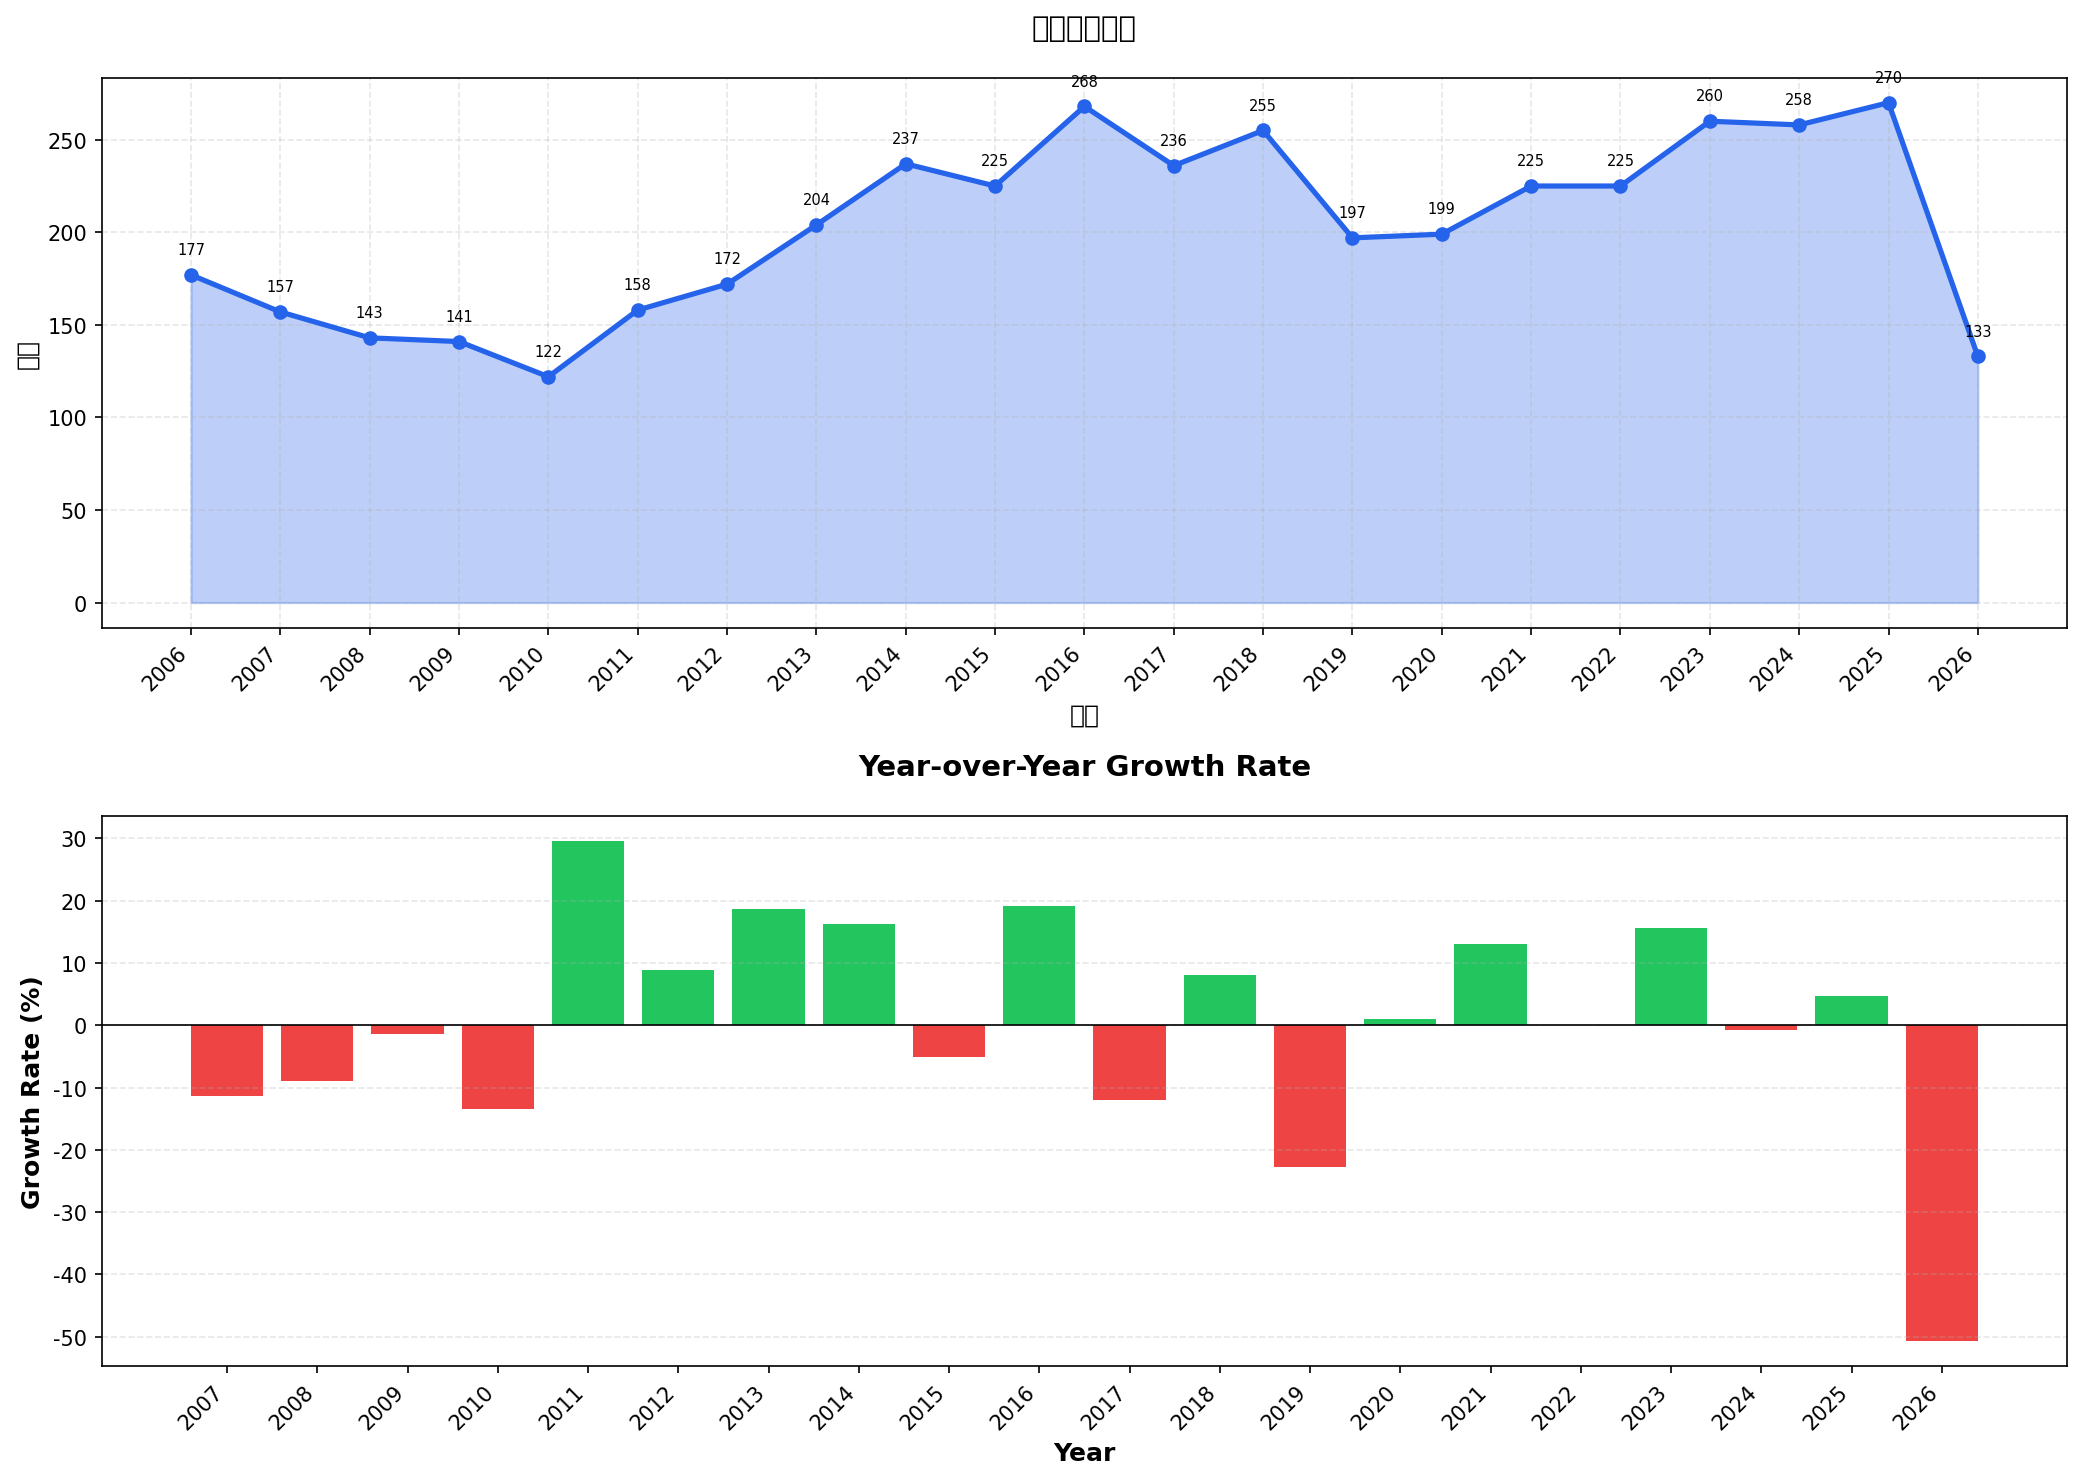
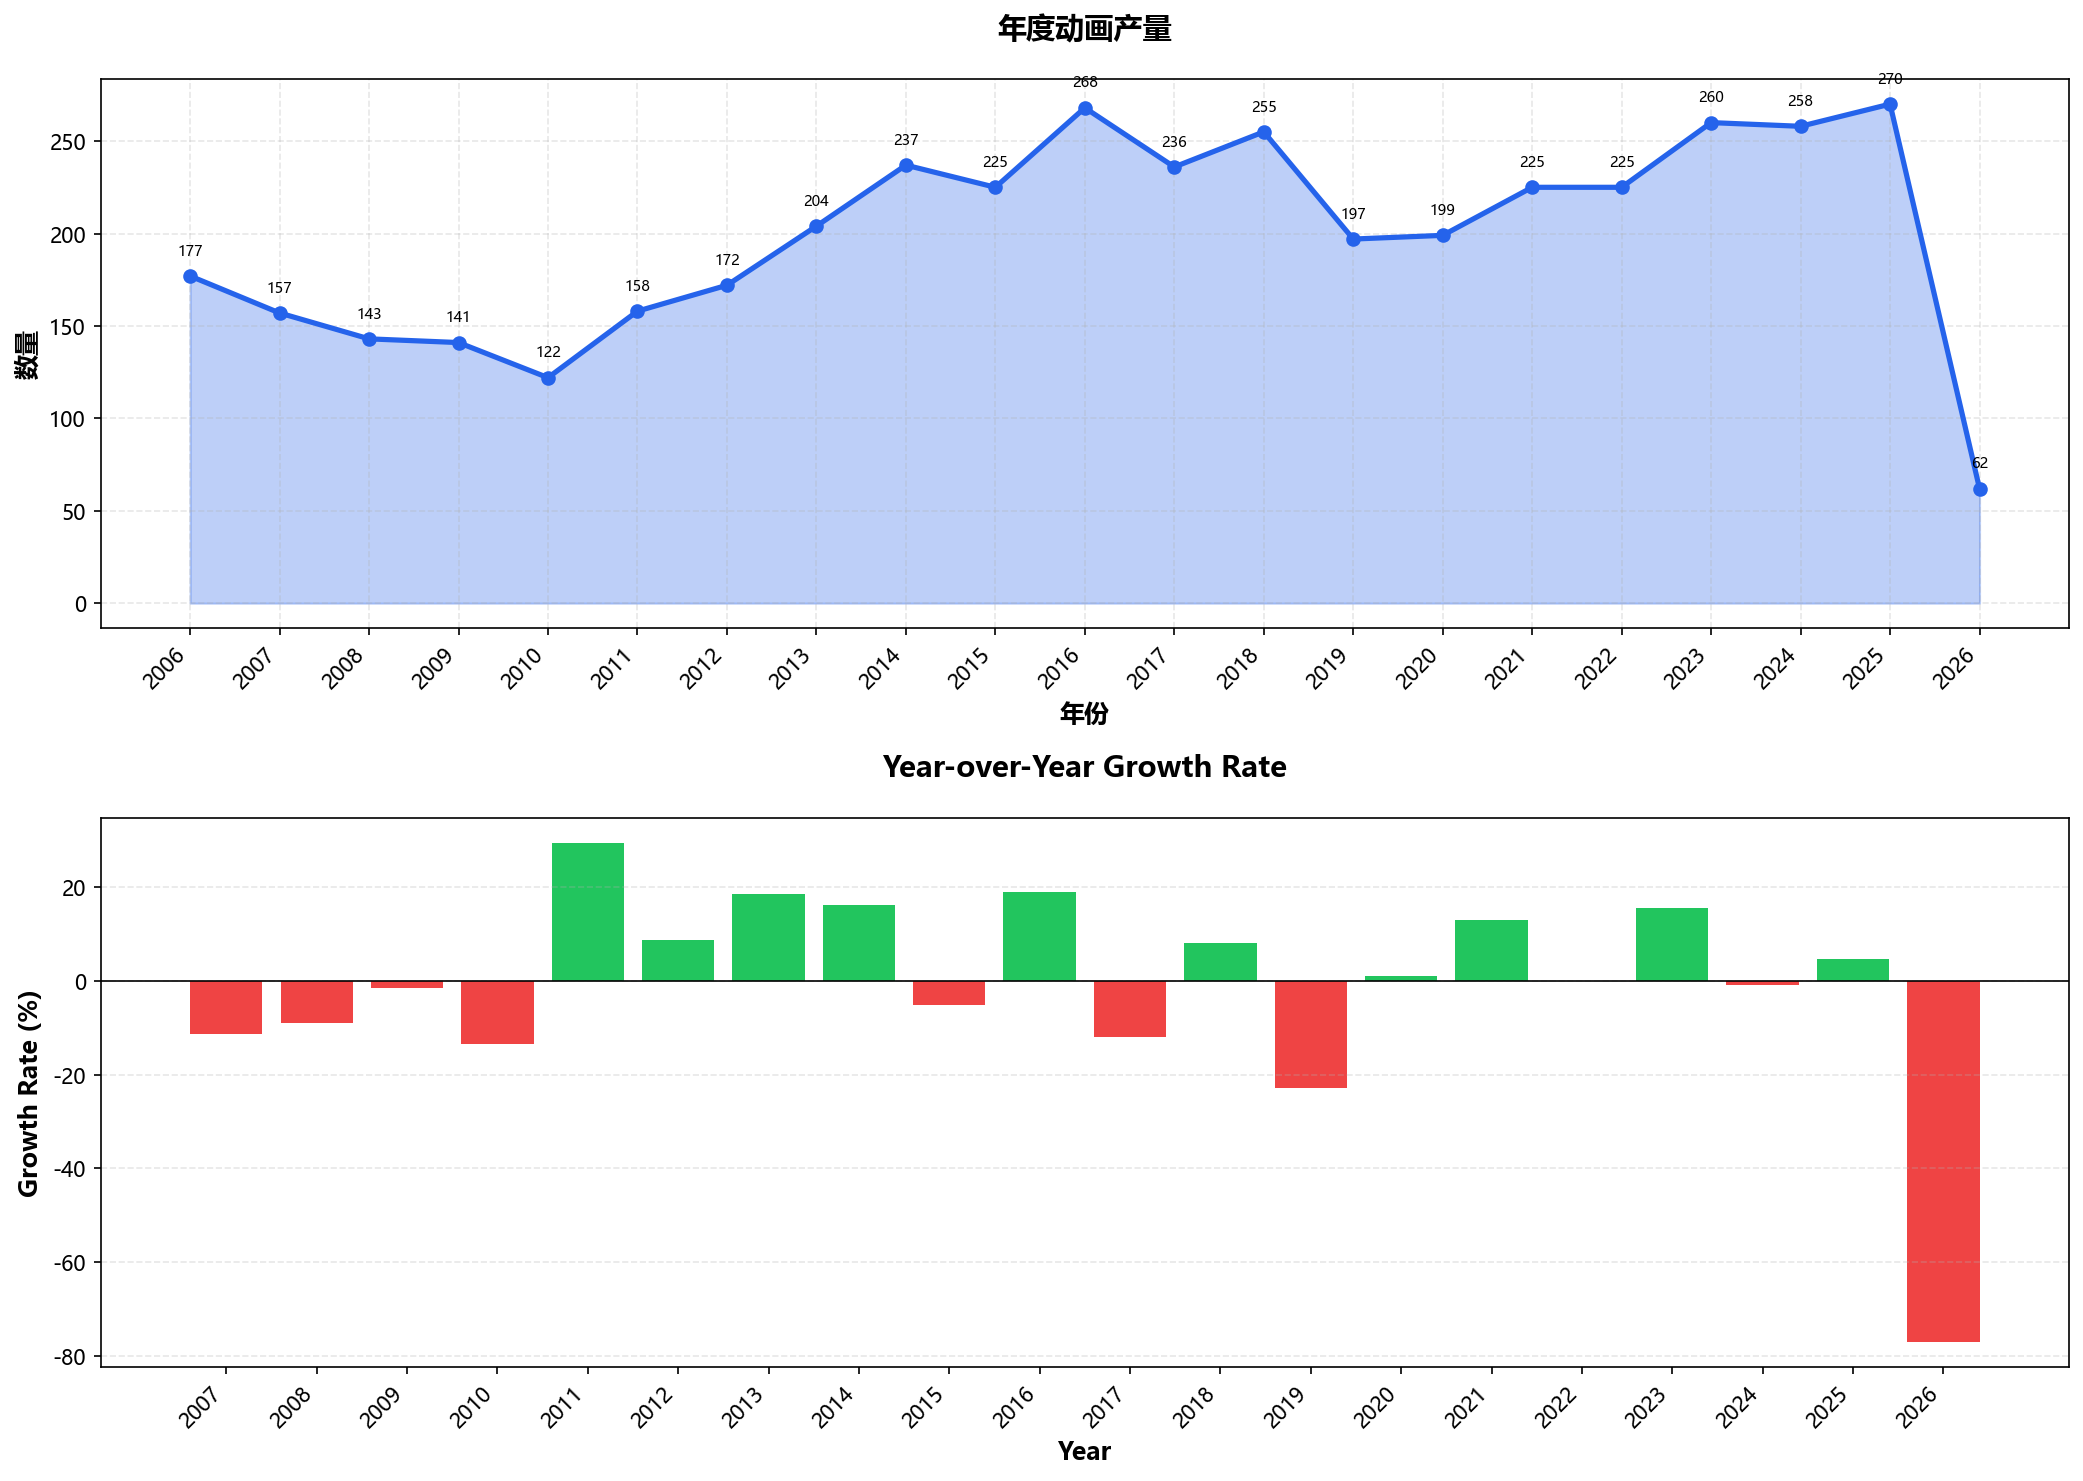
fix: excluding future ratings

diff --git a/generate_graphs.py b/generate_graphs.py
@@ -31,6 +31,35 @@ else:
 
 ASSETS_DIR.mkdir(exist_ok=True)
 
+def get_current_season():
+    """Get the current anime season based on the current month."""
+    month = datetime.now().month
+    if month in [1, 2, 3]:
+        return 'winter'
+    elif month in [4, 5, 6]:
+        return 'spring'
+    elif month in [7, 8, 9]:
+        return 'summer'
+    else:  # 10, 11, 12
+        return 'fall'
+
+def is_future_season(year, season):
+    """Check if the given year/season is in the future."""
+    # If year is None/null, we can't determine if it's future, so assume it's not
+    if year is None:
+        return False
+    
+    current_year = datetime.now().year
+    current_season = get_current_season()
+    
+    season_order = {'winter': 0, 'spring': 1, 'summer': 2, 'fall': 3}
+    
+    if year > current_year:
+        return True
+    elif year == current_year:
+        return season_order.get(season, 0) > season_order.get(current_season, 0)
+    return False
+
 # Localization
 TRANSLATIONS = {
     'en': {
@@ -208,8 +237,8 @@ def generate_rating_trend():
         year = entry['year']
         season = entry['season']
         
-        # Filter to only include 2006 to current year
-        if year < 2006 or year > current_year:
+        # Filter to only include 2006 to current season (exclude future seasons)
+        if year < 2006 or is_future_season(year, season):
             continue
         
         season_file = DATA_DIR / str(year) / f"{season}.json"
@@ -325,13 +354,12 @@ def generate_genre_trends():
     print("\nGenerating genre trends...")
     all_anime, _ = load_all_anime_data()
     
-    current_year = datetime.now().year
-    
     genre_counts_by_year = defaultdict(lambda: defaultdict(int))
     
     for anime in all_anime:
         year = anime.get('year')
-        if not year or year < 2006 or year > current_year:
+        season = anime.get('season')
+        if not year or year < 2006 or is_future_season(year, season):
             continue
         
         genres = anime.get('genres', [])
@@ -395,12 +423,11 @@ def generate_production_volume():
     print("\nGenerating production volume...")
     _, manifest = load_all_anime_data()
     
-    current_year = datetime.now().year
-    
     volume_by_year = defaultdict(int)
     for entry in manifest:
         year = entry['year']
-        if 2006 <= year <= current_year:
+        season = entry['season']
+        if year >= 2006 and not is_future_season(year, season):
             volume_by_year[year] += entry['count']
     
     years = sorted(volume_by_year.keys())
@@ -468,14 +495,13 @@ def generate_genre_trends_percentage():
     print("\nGenerating genre trends (percentage)...")
     all_anime, _ = load_all_anime_data()
     
-    current_year = datetime.now().year
-    
     genre_counts_by_year = defaultdict(lambda: defaultdict(int))
     total_by_year = defaultdict(int)
     
     for anime in all_anime:
         year = anime.get('year')
-        if not year or year < 2006 or year > current_year:
+        season = anime.get('season')
+        if not year or year < 2006 or is_future_season(year, season):
             continue
         
         total_by_year[year] += 1
@@ -543,8 +569,6 @@ def generate_genre_trends_by_season():
     print("\nGenerating genre trends by season...")
     all_anime, manifest = load_all_anime_data()
     
-    current_year = datetime.now().year
-    
     # Sort manifest chronologically
     season_month = {'winter': 1, 'spring': 4, 'summer': 7, 'fall': 10}
     manifest_sorted = sorted(manifest, key=lambda x: (x['year'], season_month.get(x['season'], 0)))
@@ -557,7 +581,7 @@ def generate_genre_trends_by_season():
         year = entry['year']
         season = entry['season']
         
-        if year < 2006 or year > current_year:
+        if year < 2006 or is_future_season(year, season):
             continue
             
         season_label = f"{season.capitalize()} {year}"
@@ -643,8 +667,6 @@ def generate_genre_trends_by_season_percentage():
     print("\nGenerating genre trends by season (percentage)...")
     all_anime, manifest = load_all_anime_data()
     
-    current_year = datetime.now().year
-    
     # Sort manifest chronologically
     season_month = {'winter': 1, 'spring': 4, 'summer': 7, 'fall': 10}
     manifest_sorted = sorted(manifest, key=lambda x: (x['year'], season_month.get(x['season'], 0)))
@@ -658,7 +680,7 @@ def generate_genre_trends_by_season_percentage():
         year = entry['year']
         season = entry['season']
         
-        if year < 2006 or year > current_year:
+        if year < 2006 or is_future_season(year, season):
             continue
             
         season_label = f"{season.capitalize()} {year}"
@@ -755,7 +777,12 @@ def generate_seasonal_patterns():
     
     for anime in all_anime:
         season = anime.get('season')
+        year = anime.get('year')
         score = anime.get('score')
+        
+        # Skip future seasons
+        if is_future_season(year, season):
+            continue
         
         if season in season_order:
             season_stats[season]['count'] += 1
